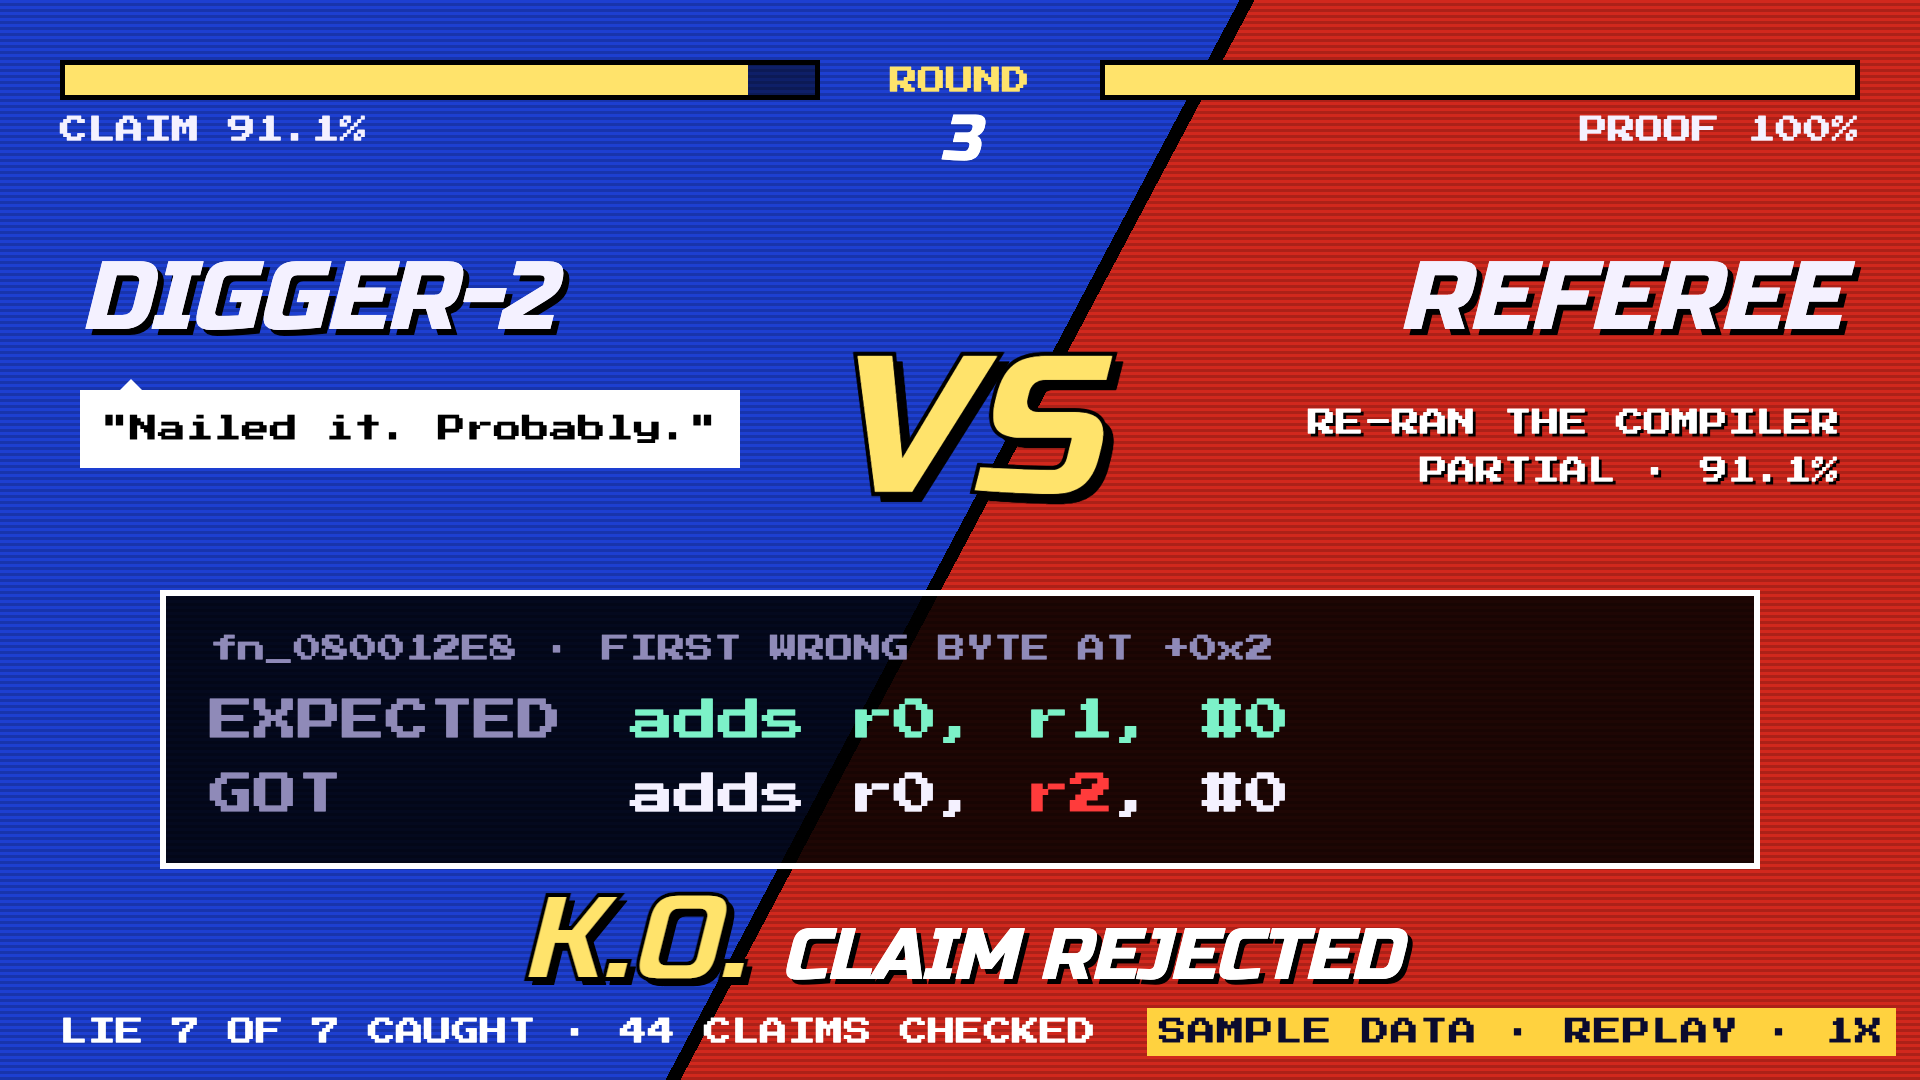
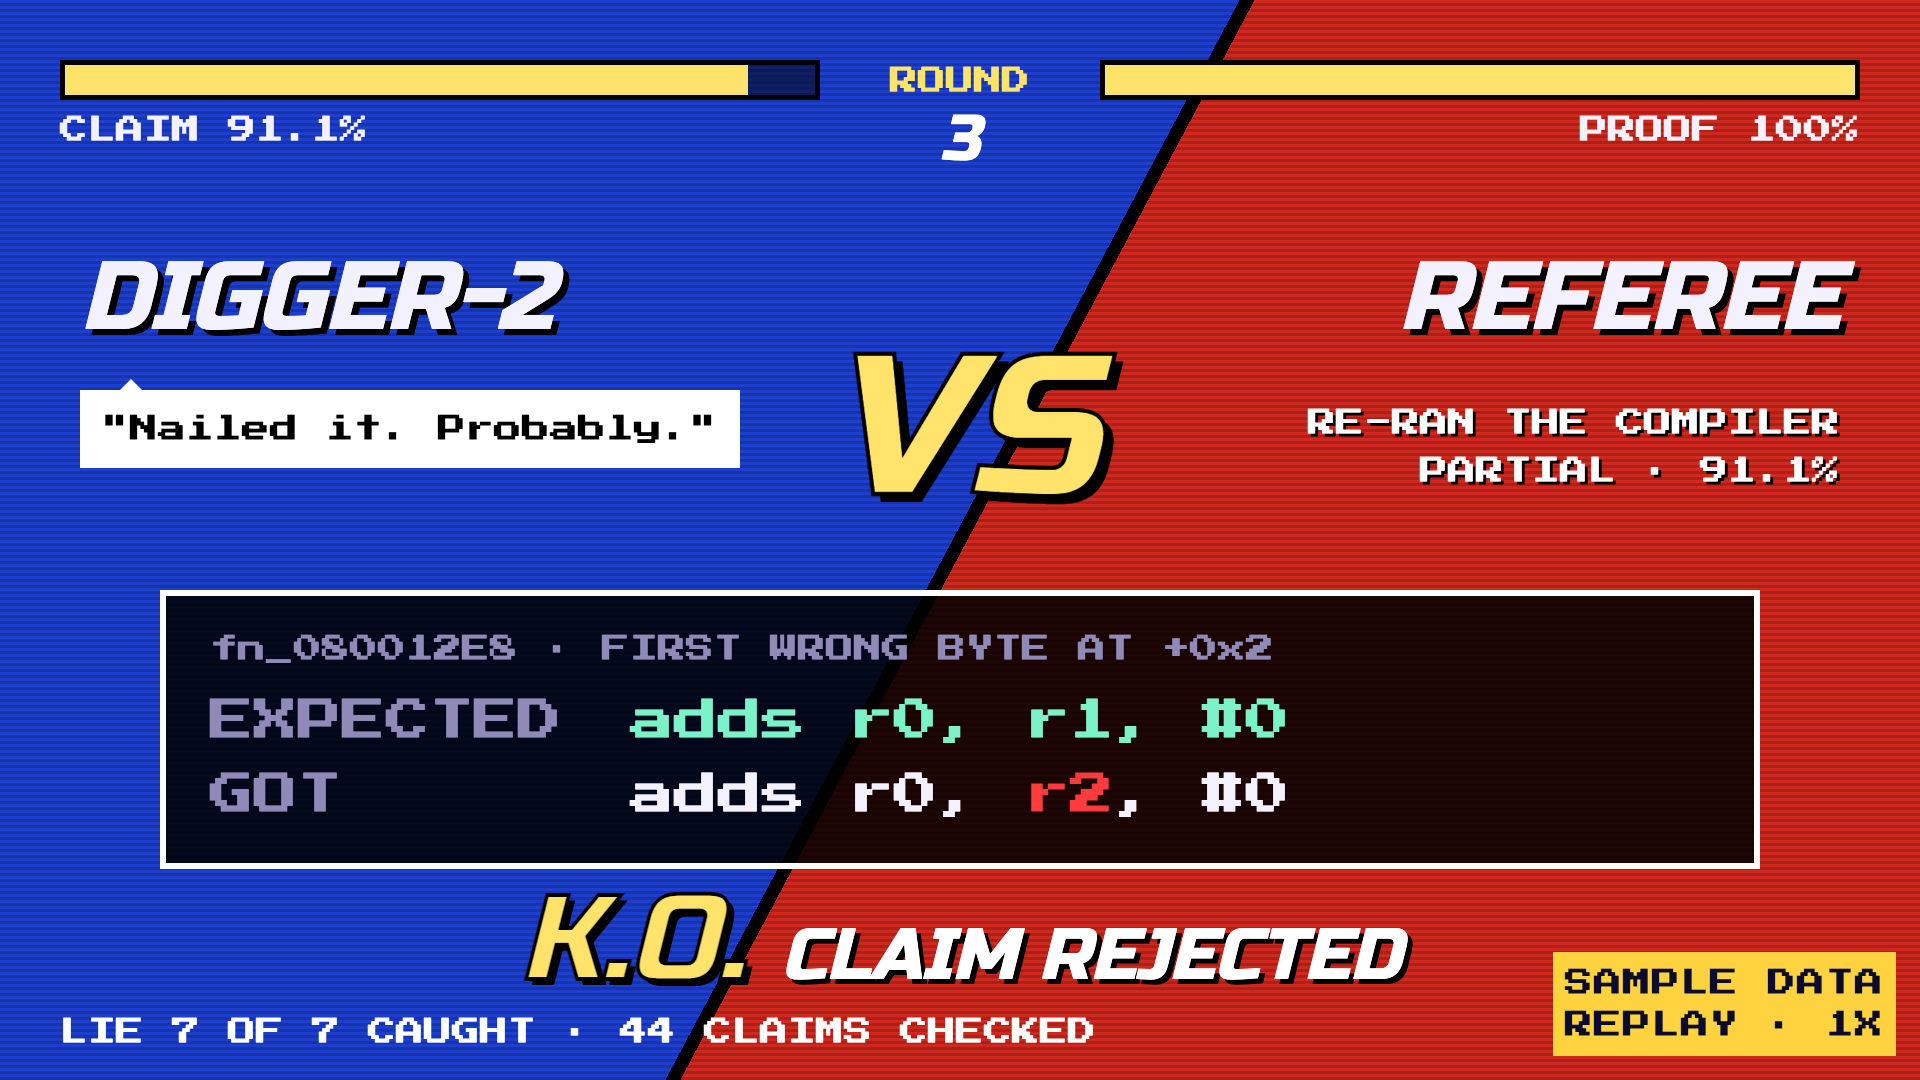
stage: Hi-score scene with liar row, auto cut to Versus and milestone calls
Arcade HUD (1UP recovered, HI-SCORE total, LIES), Bungee logo, the six newest
recovered functions (guessed names violet with ?), one hero number (% of the
game recovered), the cartridge meter and the evidence key. A false claim adds
a red liar row, holds 1 s, cuts to Versus for 4 s and returns. 25/50/75/100%
are announced once (Web Speech, muted with m). Title: space goes to Hi-score.
The corner mark stacks to two lines off Split.

Changed region(s): [[0.5938, 0.8556, 1.0, 0.9778]]

diff --git a/stage/src/scenes/hiscore.ts b/stage/src/scenes/hiscore.ts
@@ -1,0 +1,108 @@
+// Scene 1b: Hi-score, the arcade attract screen. One hero number: % of the game recovered.
+import type { Ctx, Scene } from '../types.ts';
+import { h, esc } from '../types.ts';
+import type { Effect, FalseClaim } from '../state.ts';
+import { pctRecovered } from '../state.ts';
+import { coin } from '../audio.ts';
+import { announce } from '../voice.ts';
+import { tickerHtml, renderTicker, renderRows, drawMeter, setText } from './common.ts';
+import type { RowsMemo } from './common.ts';
+
+const MILESTONES: [number, string][] = [
+  [25, 'QUARTER RECOVERED!'],
+  [50, 'HALFWAY THERE!'],
+  [75, 'THREE QUARTERS!'],
+  [100, 'FULLY RECOVERED!'],
+];
+
+export class HiscoreScene implements Scene {
+  id = 'hiscore' as const;
+  el = h('section', 'scene hiscore');
+  private rowsEl: HTMLElement;
+  private meter: HTMLCanvasElement;
+  private memo: RowsMemo = { key: '', top: '' };
+  private liar: string | null = null;
+  private liarTimer = 0;
+  private bannerTimer = 0;
+
+  constructor() {
+    this.el.innerHTML = `
+      <div class="arcade">
+        <div><span class="k one">1UP</span><span class="v" data-k="up">0</span></div>
+        <div><span class="k hi">HI-SCORE</span><span class="v" data-k="hi">--</span></div>
+        <div><span class="k lies">LIES</span><span class="v" data-k="lies">0</span></div>
+      </div>
+      <div class="hs-logo">FRANKENSTEIN</div>
+      <div class="table">
+        <div class="thead"><span>RANK</span><span>NAME</span><span>MATCH</span></div>
+        <div class="rows"></div>
+      </div>
+      <div class="hero">
+        <div class="num" data-k="pct">--</div>
+        <div class="cap">OF THE GAME<br>RECOVERED</div>
+      </div>
+      <div class="cart"><div class="lbl">CARTRIDGE <span>· GREY = LIBRARY</span></div><canvas width="1680" height="56"></canvas></div>
+      <div class="key"><em>? = OUR GUESS.</em> EVERYTHING ELSE IS PROVED.</div>
+      <div class="banner" data-k="banner"></div>
+      <div class="ticker">${tickerHtml()}</div>`;
+    this.rowsEl = this.el.querySelector('.rows')!;
+    this.meter = this.el.querySelector('canvas')!;
+  }
+
+  render(ctx: Ctx) {
+    const s = ctx.state;
+    setText(this.el, 'up', String(s.matched.length));
+    setText(this.el, 'hi', s.fnTotal ? String(s.fnTotal) : '--');
+    setText(this.el, 'lies', String(s.falseClaims.length));
+    const p = pctRecovered(s);
+    setText(this.el, 'pct', p == null ? '--' : `${Math.floor(p)}%`);
+    renderRows(this.rowsEl, ctx, 6, this.memo, this.liar);
+    this.fitNames();
+    drawMeter(this.meter, ctx);
+    renderTicker(this.el, s, ctx.reduced);
+  }
+
+  effect(ctx: Ctx, e: Effect) {
+    if (e.kind === 'matched') {
+      coin();
+      const s = ctx.state;
+      if (!s.fnTotal) return;
+      const now = (100 * s.matched.length) / s.fnTotal;
+      const before = (100 * (s.matched.length - 1)) / s.fnTotal;
+      for (const [m, line] of MILESTONES) if (before < m && now >= m) this.banner(ctx, line);
+    } else if (e.kind === 'reset') {
+      this.memo = { key: '', top: '' };
+      this.liar = null;
+    }
+  }
+
+  /** A liar row in alarm red at the top of the table (main cuts to Versus a second later). */
+  showLiar(ctx: Ctx, c: FalseClaim) {
+    this.liar = `<div class="row liar"><span class="rk">LIAR</span><span class="nm">${esc(c.actor.toUpperCase())} · ${esc(c.fn)}</span><span class="pc">${c.match_pct.toFixed(0)}%</span></div>`;
+    clearTimeout(this.liarTimer);
+    this.liarTimer = window.setTimeout(() => { this.liar = null; this.memo.key = ''; ctx.invalidate(); }, 1600);
+    this.memo.key = '';
+    ctx.invalidate();
+  }
+
+  private banner(ctx: Ctx, text: string) {
+    const el = this.el.querySelector('[data-k="banner"]') as HTMLElement;
+    el.textContent = text;
+    el.classList.add('on');
+    announce(text);
+    clearTimeout(this.bannerTimer);
+    this.bannerTimer = window.setTimeout(() => el.classList.remove('on'), ctx.reduced ? 1500 : 2200);
+  }
+
+  /** Long guessed names shrink (never below 28 px) instead of being cut off. */
+  private fitNames() {
+    this.rowsEl.querySelectorAll<HTMLElement>('.nm').forEach((el) => {
+      if (el.dataset.fit === el.textContent) return;
+      el.dataset.fit = el.textContent ?? '';
+      el.style.fontSize = '';
+      const len = (el.textContent ?? '').length;
+      const px = Math.max(28, Math.min(40, Math.floor(el.clientWidth / Math.max(1, len))));
+      el.style.fontSize = `${px}px`;
+    });
+  }
+}

diff --git a/stage/src/style.css b/stage/src/style.css
@@ -55,7 +55,9 @@ body.obs .stage { background: transparent; }
   font: 28px/1 var(--hud); letter-spacing: 1px; color: var(--midnight);
   background: var(--yellow); padding: 10px 12px; display: none;
 }
-#mark.show { display: block; }
+#mark.show { display: block; text-align: right; line-height: 1.5; }
+#mark span { display: block; } #mark i { display: none; }
+.stage[data-scene='split'] #mark span, .stage[data-scene='split'] #mark i { display: inline; font-style: normal; }
 #mark.bad { background: var(--alarm); color: #fff; }
 .stage[data-scene='split'] #mark { top: 14px; right: 24px; padding: 8px 10px; }
 .stage[data-scene='versus'] #mark, .stage[data-scene='title'] #mark, .stage[data-scene='ending'] #mark { top: auto; bottom: 24px; right: 24px; }
@@ -238,7 +240,7 @@ body.obs .split .game-frame .ph { display: none; }
 .title .menu .pct { color: var(--mint); }
 .title .menu .sub { padding: 6px 0 18px 364px; font-size: 28px; color: var(--alarm); }
 .title .menu .f.new { color: var(--dim); }
-.title .press { position: absolute; left: 0; right: 0; top: 920px; text-align: center; font-size: 40px; color: var(--yellow); }
+.title .press { position: absolute; left: 0; right: 0; margin: 0 auto; width: max-content; top: 920px; text-align: center; font-size: 40px; color: var(--yellow); }
 .title .press.blink { animation: blink 1s steps(1) infinite; }
 @keyframes blink { 50% { opacity: 0; } }
 .title .credit { position: absolute; left: 0; right: 0; bottom: 30px; text-align: center; font-size: 18px; color: var(--dim); }
@@ -246,3 +248,36 @@ body.obs .split .game-frame .ph { display: none; }
 @media (prefers-reduced-motion: reduce) {
   *, *::before, *::after { animation: none !important; transition: none !important; }
 }
+
+/* ---------- HI-SCORE ---------- */
+.hiscore .arcade { position: absolute; left: 0; right: 0; top: 28px; display: flex; justify-content: center; gap: 220px; text-align: center; }
+.hiscore .arcade .k { display: block; font-size: 28px; }
+.hiscore .arcade .k.one { color: var(--alarm); } .hiscore .arcade .k.hi { color: var(--yellow); } .hiscore .arcade .k.lies { color: var(--magenta); }
+.hiscore .arcade .v { display: block; font-size: 44px; margin-top: 14px; color: var(--ink); }
+.hs-logo {
+  position: absolute; left: 0; right: 0; top: 150px; text-align: center;
+  font: 120px/1 'Bungee', sans-serif; color: var(--yellow); letter-spacing: 4px;
+  text-shadow: -7px 0 0 var(--alarm), 7px 7px 0 var(--cyan);
+}
+.hiscore .table { position: absolute; left: 110px; top: 306px; width: 1160px; }
+.hiscore .thead { display: grid; grid-template-columns: 190px minmax(0,1fr) 170px; font-size: 28px; color: var(--dim); padding-bottom: 18px; }
+.hiscore .thead span:last-child { text-align: right; }
+.hiscore .rows { height: 420px; margin-top: 0; }
+.hiscore .row { height: 70px; grid-template-columns: 190px minmax(0,1fr) 170px; font-size: 40px; }
+.hiscore .row .nm { white-space: nowrap; }
+.hiscore .hero { position: absolute; left: 1320px; top: 360px; width: 500px; text-align: center; }
+.hiscore .hero .num { font: 220px/1 'Bungee', sans-serif; color: var(--mint); text-shadow: 8px 8px 0 var(--night-violet); }
+.hiscore .hero .cap { font-size: 32px; line-height: 1.6; margin-top: 26px; color: var(--ink); }
+.hiscore .cart { position: absolute; left: 120px; top: 830px; width: 1680px; }
+.hiscore .cart .lbl { font-size: 28px; color: var(--dim); }
+.hiscore .cart .lbl span { color: var(--grey); }
+.hiscore .cart canvas { display: block; margin-top: 14px; width: 1680px; height: 56px; }
+.hiscore .key { position: absolute; left: 0; right: 0; top: 950px; text-align: center; font-size: 28px; color: var(--dim); }
+.hiscore .key em { font-style: normal; color: var(--guess); }
+.hiscore .banner {
+  position: absolute; left: 0; right: 0; top: 470px; text-align: center; z-index: 6; display: none;
+  font: 110px/1 'Bungee', sans-serif; color: var(--yellow); text-shadow: -6px 0 0 var(--alarm), 6px 6px 0 var(--cyan), 0 0 0 #000;
+  background: rgba(11,11,46,0.92); padding: 40px 0;
+}
+.hiscore .banner.on { display: block; animation: blink 0.5s steps(1) 3; }
+.stage[data-scene='hiscore'] #mark { top: 24px; right: 24px; }

diff --git a/stage/src/main.ts b/stage/src/main.ts
@@ -10,6 +10,7 @@ import { h } from './types.ts';
 import { SplitScene } from './scenes/split.ts';
 import { VersusScene } from './scenes/versus.ts';
 import { TitleScene } from './scenes/title.ts';
+import { HiscoreScene } from './scenes/hiscore.ts';
 
 const params = new URLSearchParams(location.search);
 const host = params.get('server') || '127.0.0.1';
@@ -33,7 +34,8 @@ const scenes: Partial<Record<SceneId, Scene>> = {};
 const split = new SplitScene();
 const versus = new VersusScene();
 const title = new TitleScene(reduced);
-for (const s of [title, split, versus] as Scene[]) { scenes[s.id] = s; stageEl.appendChild(s.el); }
+const hiscore = new HiscoreScene();
+for (const s of [title, split, hiscore, versus] as Scene[]) { scenes[s.id] = s; stageEl.appendChild(s.el); }
 stageEl.append(fxCanvas, flashEl, markEl);
 
 let current: SceneId = 'split';
@@ -45,6 +47,7 @@ const ctx: Ctx = {
   obs,
   go: (id) => go(id),
   current: () => current,
+  invalidate: () => { dirty = true; },
 };
 
 function show(id: SceneId) {
@@ -76,10 +79,12 @@ function renderMark() {
   const s = ctx.state;
   const parts: string[] = [];
   if (!connected) parts.push('NO SIGNAL · RECONNECTING');
-  if (s.fixture || ctx.side.fixture) parts.push('SAMPLE DATA');
-  if (s.mode === 'replay') parts.push(`REPLAY · ${s.speed}X${s.ended ? ' · END' : ''}`);
-  const t = parts.join(' · ');
-  if (markEl.textContent !== t) markEl.textContent = t;
+  const own = scenes[current]?.sample?.(ctx);
+  const streamScene = own == null;
+  if (own ?? (s.fixture || ctx.side.fixture)) parts.push('SAMPLE DATA');
+  if (streamScene && s.mode === 'replay') parts.push(`REPLAY · ${s.speed}X${s.ended ? ' · END' : ''}`);
+  const html = parts.map((p) => `<span>${p}</span>`).join('<i> · </i>');
+  if (markEl.innerHTML !== html) markEl.innerHTML = html;
   markEl.classList.toggle('show', parts.length > 0);
   markEl.classList.toggle('bad', !connected);
 }
@@ -89,8 +94,16 @@ let backlogLeft = 0;
 let dirty = true;
 let sideDir: string | null | undefined;
 
+let versusCut = false;
 function onEffects(list: Effect[]) {
   for (const e of list) {
+    // a false claim during Hi-score: liar row, hold 1 s, Versus for 4 s, back to Hi-score
+    if (e.kind === 'falseClaim' && current === 'hiscore' && !versusCut) {
+      versusCut = true;
+      hiscore.showLiar(ctx, e.c);
+      setTimeout(() => go('versus'), 1000);
+      setTimeout(() => { if (current === 'versus') go('hiscore'); versusCut = false; }, 5300);
+    }
     for (const s of Object.values(scenes)) {
       // the visible scene animates; hidden scenes still hear resets
       if (s!.id === current || e.kind === 'reset') s!.effect?.(ctx, e);
@@ -149,11 +162,12 @@ function frame() {
 }
 
 // ---------- keys (the presenter never touches the mouse) ----------
-const KEYS: Record<string, SceneId> = { '0': 'title', '1': 'split', '2': 'versus' };
+const KEYS: Record<string, SceneId> = { '0': 'title', '1': 'split', '2': 'versus', '3': 'timetrial', '4': 'ending', '5': 'hiscore', h: 'hiscore' };
 addEventListener('keydown', (k) => {
   unlockAudio();
+  if (scenes[current]?.key?.(ctx, k.key)) { dirty = true; return; }
   if (KEYS[k.key]) go(KEYS[k.key]);
-  else if (k.key === ' ' && current === 'title') go('split');
+  else if (k.key === ' ' && current === 'title') go('hiscore');
   else if (k.key === 'm') { setMuted(!isMuted()); }
 });
 addEventListener('pointerdown', unlockAudio);

diff --git a/stage/src/voice.ts b/stage/src/voice.ts
@@ -1,0 +1,30 @@
+// Announcer voice (Web Speech API). Captions are always on screen; voice is extra and muted with `m`.
+// Never more than one spoken line queued; stale lines are dropped.
+import { isMuted } from './audio.ts';
+
+const PREFERRED = ['Daniel', 'Moira', 'Serena'];
+let voice: SpeechSynthesisVoice | null = null;
+let last = 0;
+
+function pick() {
+  if (voice || typeof speechSynthesis === 'undefined') return;
+  const all = speechSynthesis.getVoices();
+  for (const name of PREFERRED) {
+    const v = all.find((x) => x.name.startsWith(name));
+    if (v) { voice = v; return; }
+  }
+}
+if (typeof speechSynthesis !== 'undefined') speechSynthesis.onvoiceschanged = pick;
+
+export function announce(text: string) {
+  if (isMuted() || typeof speechSynthesis === 'undefined') return;
+  const now = Date.now();
+  if (now - last < 8000) return; // the announcer speaks at most once every 8 s
+  last = now;
+  pick();
+  speechSynthesis.cancel();
+  const u = new SpeechSynthesisUtterance(text.toLowerCase());
+  if (voice) u.voice = voice;
+  u.rate = 1.0;
+  speechSynthesis.speak(u);
+}

diff --git a/stage/src/types.ts b/stage/src/types.ts
@@ -12,6 +12,7 @@ export type Ctx = {
   obs: boolean;
   go: (id: SceneId) => void;
   current: () => SceneId;
+  invalidate: () => void;
 };
 
 export interface Scene {
@@ -23,6 +24,10 @@ export interface Scene {
   effect?(ctx: Ctx, e: Effect): void;
   enter?(ctx: Ctx): void;
   leave?(ctx: Ctx): void;
+  /** a key the scene handles itself (true = handled) */
+  key?(ctx: Ctx, key: string): boolean;
+  /** true/false when this scene's numbers come from its own files (Time trial); null/undefined = the stream */
+  sample?(ctx: Ctx): boolean | null;
 }
 
 export const esc = (s: string) => s.replace(/[&<>"']/g, (c) => ({ '&': '&amp;', '<': '&lt;', '>': '&gt;', '"': '&quot;', "'": '&#39;' })[c]!);
